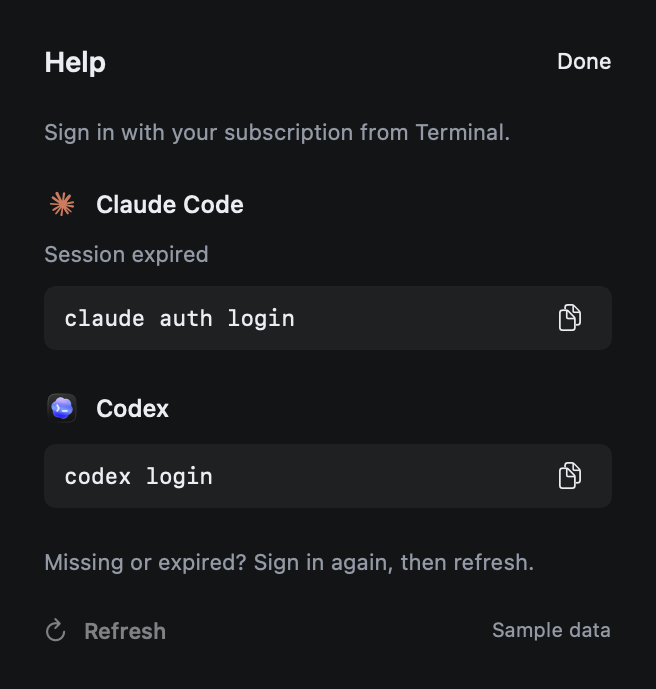
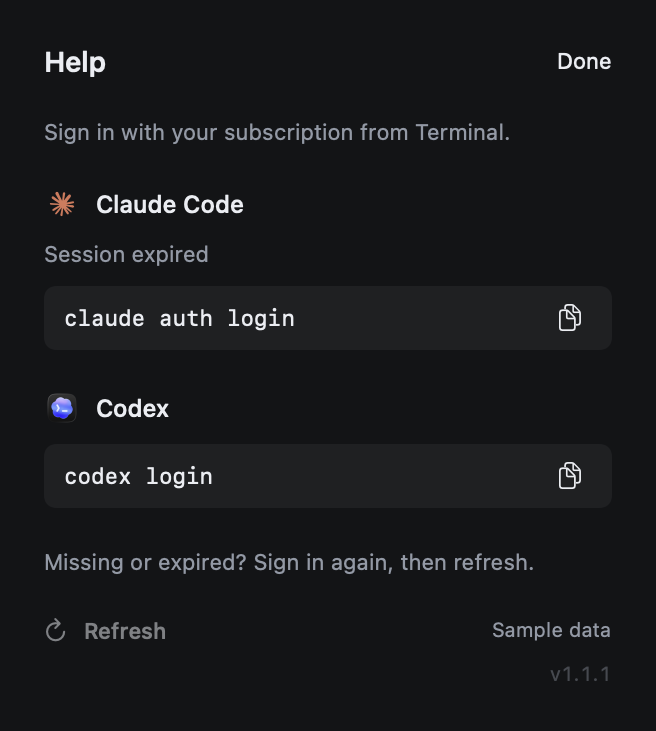
Release Weeklet 1.1.1 with a quiet installed-version footer
Show the current installed version at the bottom of usage and Help in
subtle gray. Refresh native sample screenshots and release notes.

diff --git a/Sources/Weeklet/PopoverView.swift b/Sources/Weeklet/PopoverView.swift
@@ -22,9 +22,17 @@ struct PopoverView: View {
     private var visibleStates: [ProviderState] { store.visibleStates }
 
     var body: some View {
-        Group {
-            if showingHelp || helpPreview { helpContent }
-            else { usageContent }
+        VStack(alignment: .leading, spacing: 0) {
+            Group {
+                if showingHelp || helpPreview { helpContent }
+                else { usageContent }
+            }
+            Text("v\(updates.currentVersion)")
+                .font(.system(size: 10)).monospacedDigit()
+                .foregroundStyle(Palette.secondary.opacity(0.4))
+                .frame(maxWidth: .infinity, alignment: .trailing)
+                .padding(.top, 8)
+                .accessibilityLabel("Weeklet version \(updates.currentVersion)")
         }
         .padding(22)
         .frame(width: 328)

diff --git a/README.md b/README.md
@@ -111,6 +111,8 @@ Read the precise [credential locations and privacy boundaries](docs/privacy.md) 
 
 Opening the popover checks GitHub Releases when due, without a background polling timer. A newer compatible version adds **Update** to the popover. Click it to download, verify, install and reopen Weeklet. **Options → Check for Updates** checks immediately.
 
+The installed version stays visible at the very bottom of the quota and Help views in a quiet gray label.
+
 Every update is authenticated with a pinned Ed25519 publisher key and SHA-256 before extraction. The installer validates the app, prepares a replacement before quitting, swaps bundles atomically and attempts rollback if reopening fails. Installation never starts from a background check alone. No provider token, GitHub token or signing secret is stored in the app.
 
 The owner publishes with `./scripts/release.sh --publish`: build and sign locally, then let a free standard GitHub Actions runner verify and publish the public files. The private signing key stays in the owner's Keychain and is never uploaded to GitHub. See [updates and publishing](docs/updates.md).

diff --git a/docs/releases/1.1.1.md b/docs/releases/1.1.1.md
@@ -1,0 +1,3 @@
+The installed version is now visible at the bottom of the popover and Help in a subtle gray label.
+
+This update keeps the green activity badges, signed GitHub updates and read-only provider access introduced in 1.1.0.
